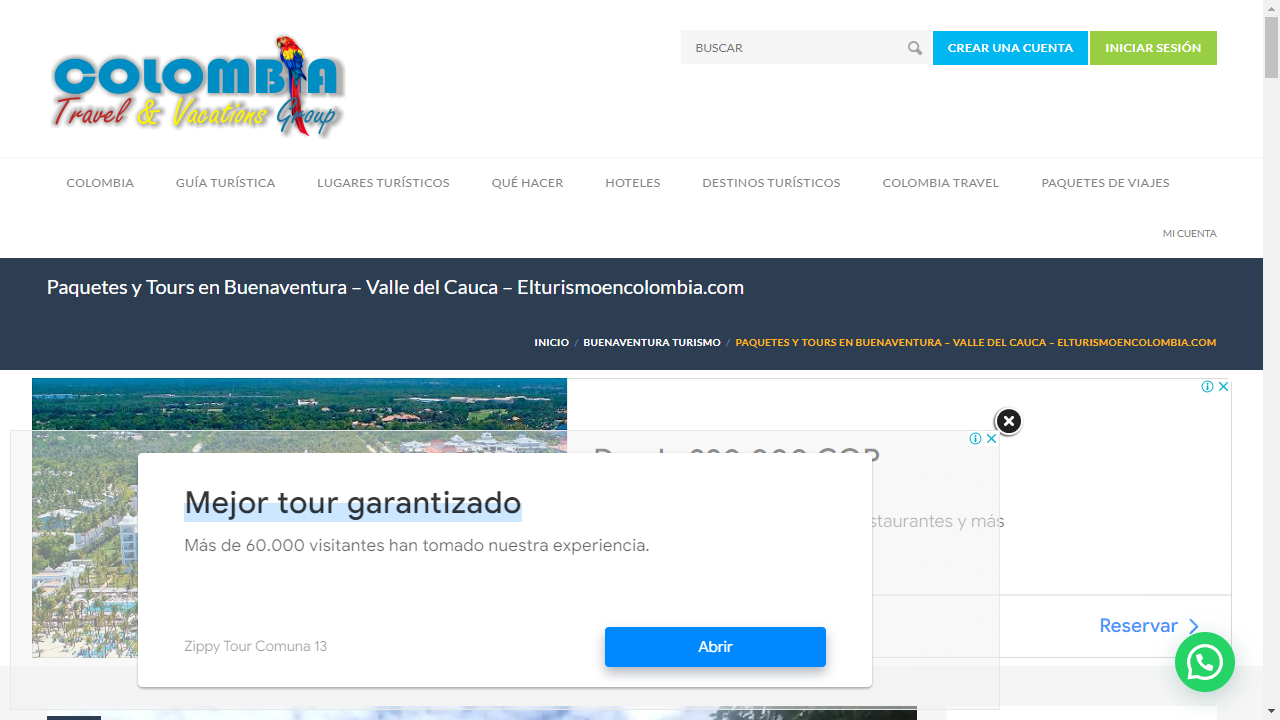
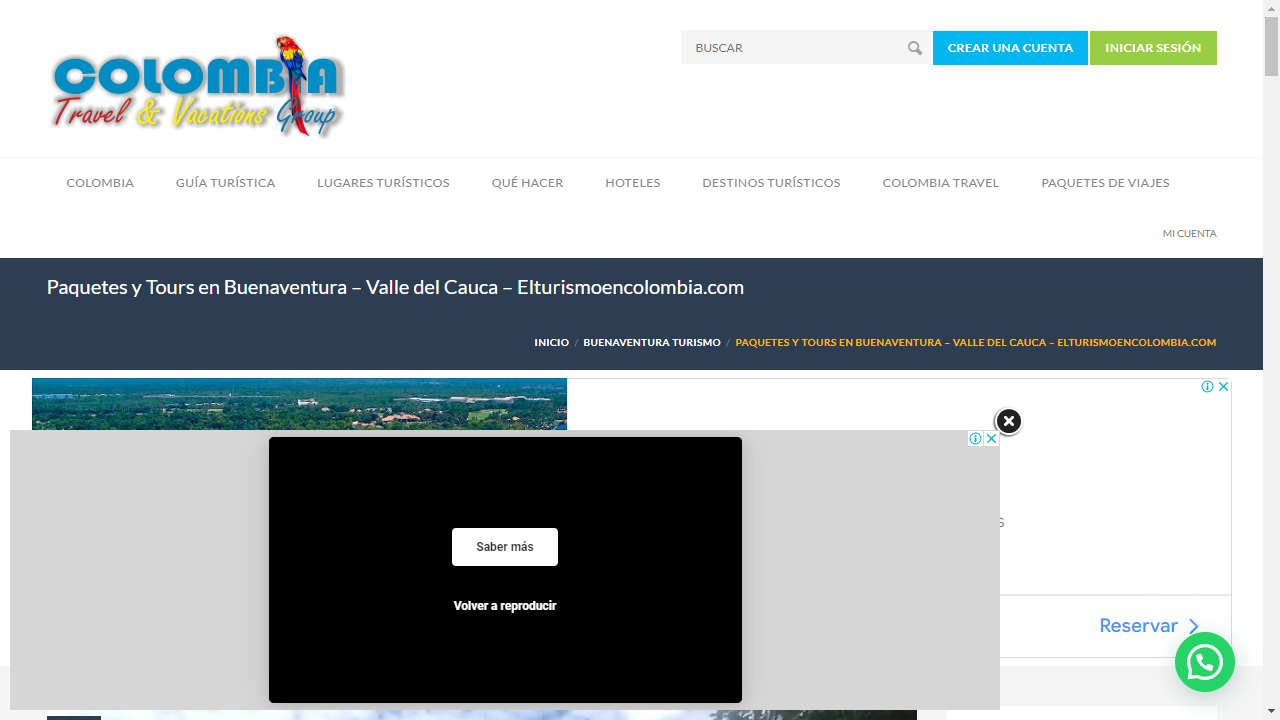
Enable headless

Changed region(s): [[0.0, 0.5806, 0.7812, 1.0]]

diff --git a/www/Main.py b/www/Main.py
@@ -24,7 +24,7 @@ if __name__ == '__main__':
         if i == c.get("pag"):
             async def main():
                 async with async_playwright() as pw:
-                    browser = await pw.chromium.launch()
+                    browser = await pw.chromium.launch(headless=False)
                     page = await browser.new_page()
 
                     # Abrir la pagina
@@ -95,6 +95,7 @@ if __name__ == '__main__':
                         await page.click(contenido.get("buscar").get("click"))
 
                         # Captura de pantalla
+                        await asyncio.sleep(10)
                         await page.screenshot(path="capturas__de__pantalla/__pagina2.png")
                         await asyncio.sleep(2)
 
